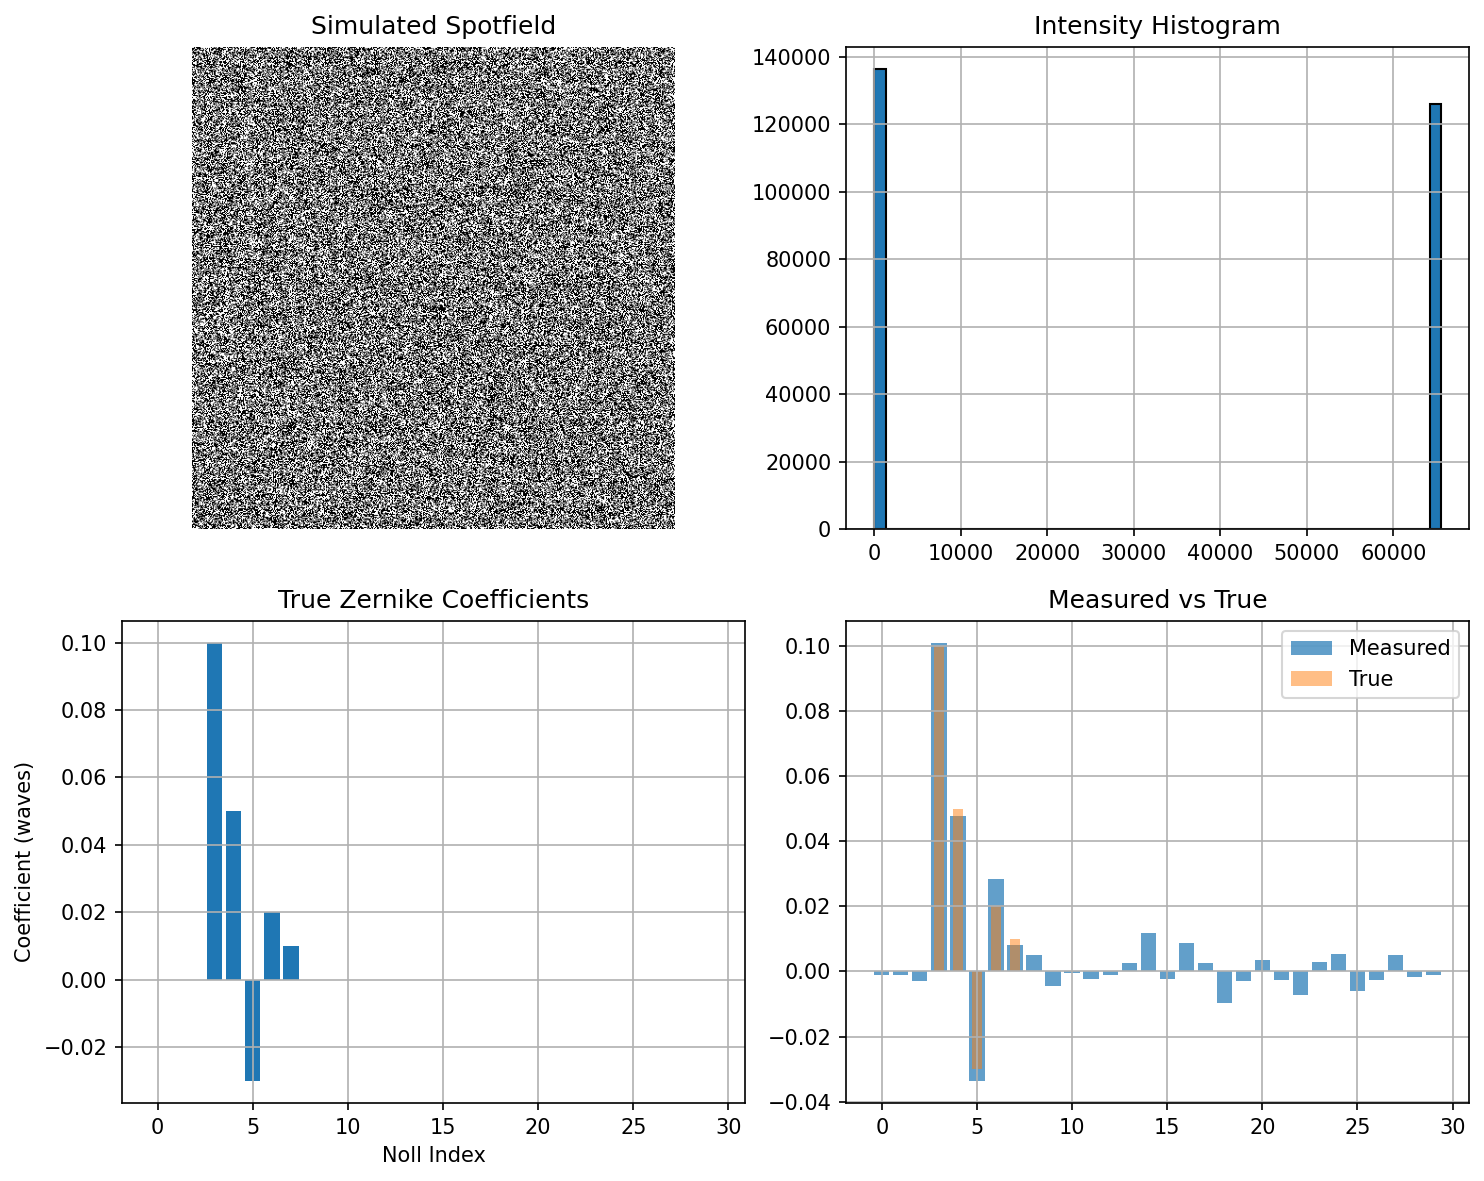
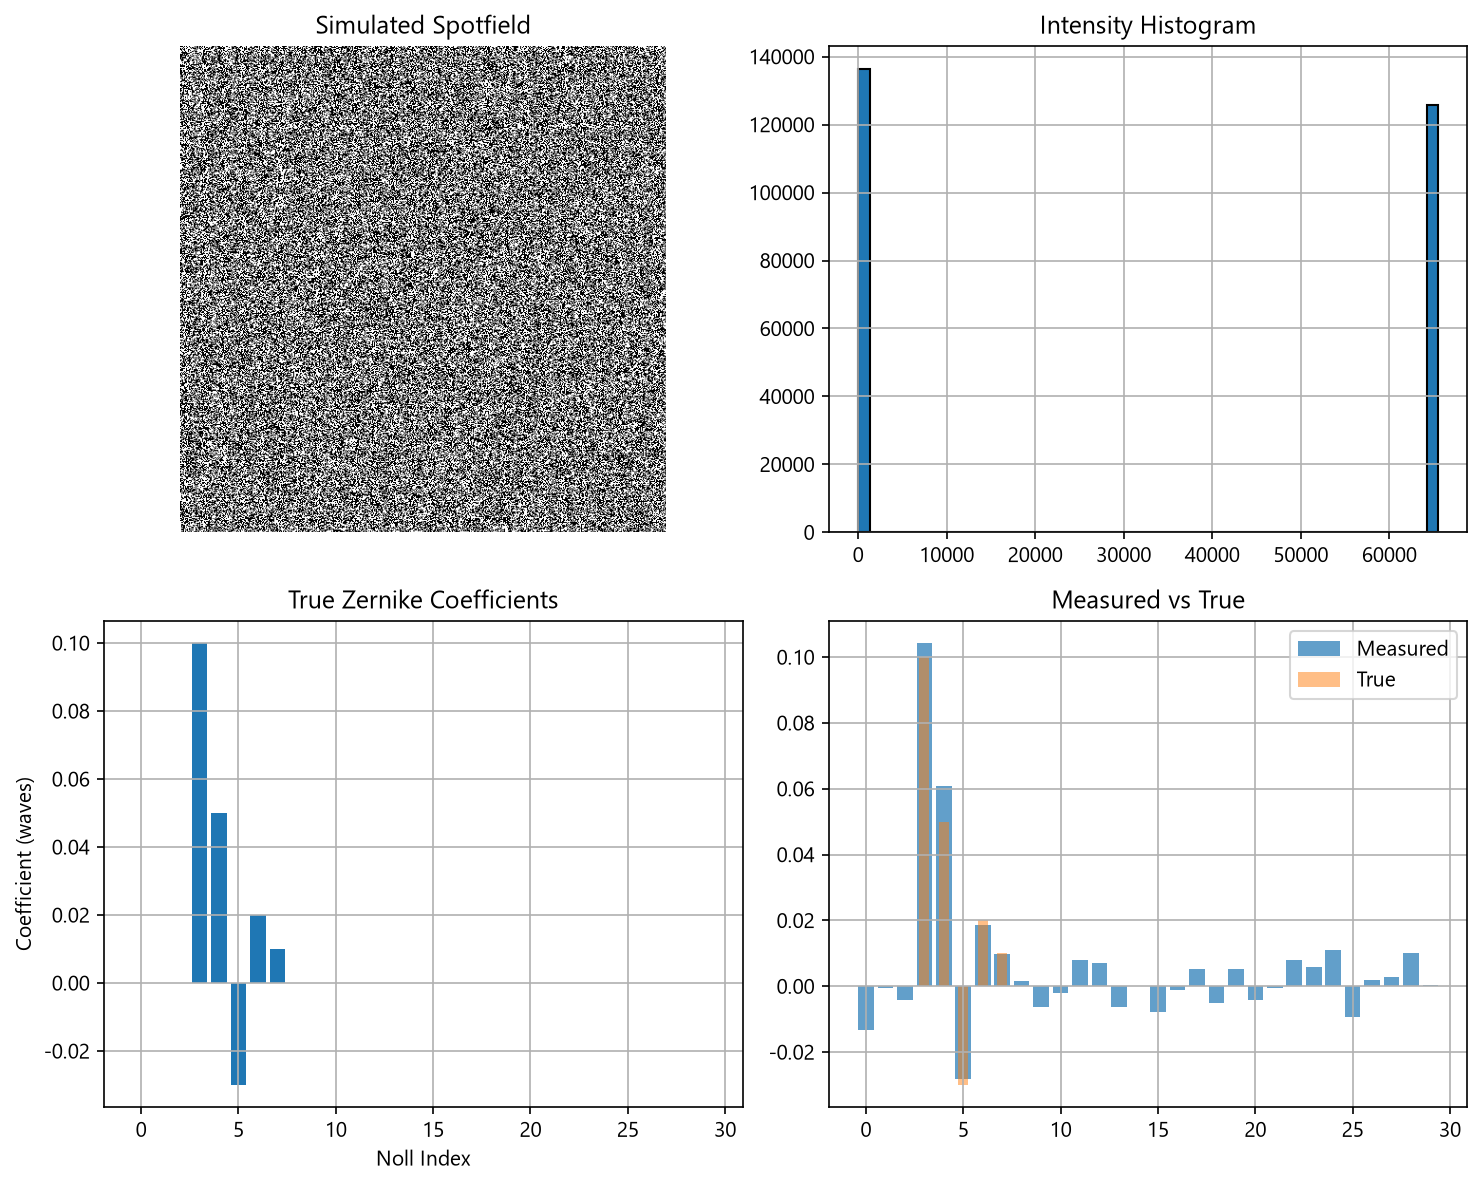
docs(wfs): add regenerated WFS simulation report
Pre-existing working-tree changes that were present before the slm-gs-refine
work and are unrelated to it: a regenerated SimulatedWFS far-field figure and
the matching report text. Committed separately (and not authored as part of the
runner task) so it can be dropped on its own if it turns out to be stale.

diff --git a/docs/wfs/wfs_report.md b/docs/wfs/wfs_report.md
@@ -1,5 +1,5 @@
 # WFS Hardware Test Report
-**Generated:** 2026-09-29 15:44:24
+**Generated:** 2026-10-01 13:07:28
 **Device:** wfs
 ---
 
@@ -13,6 +13,6 @@ This test runs without hardware using simulated data.
 
 **Status:** ✅ PASS
 
-**Duration:** 0.40s
+**Duration:** 0.43s
 
 ---
